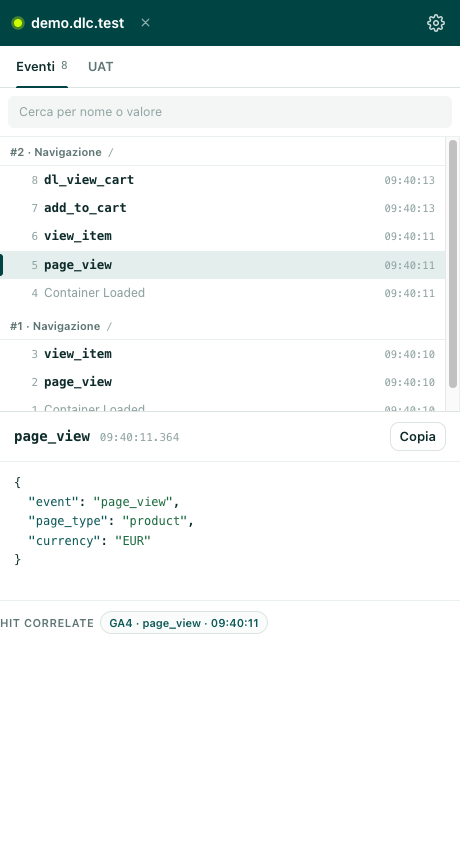
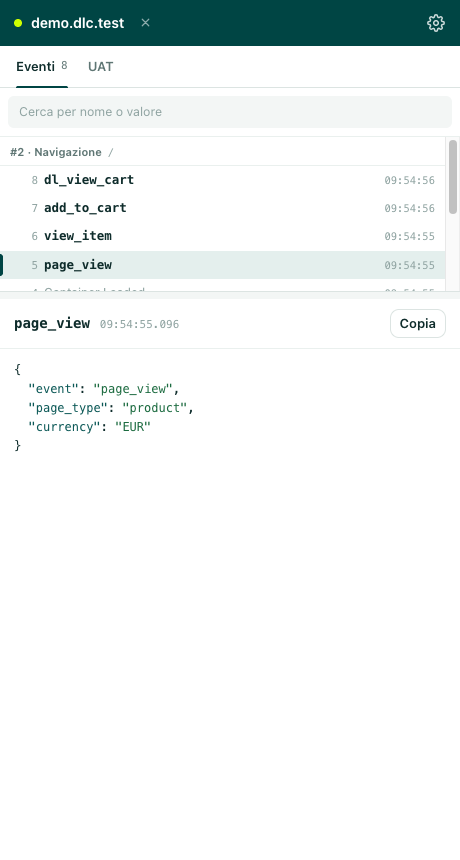
feat: la divisione fra lista eventi e dettaglio si trascina
Il separatore fra le due parti mostra il cursore a due frecce in hover (row-resize nel pannello
stretto, col-resize in una finestra larga), si trascina con il pointer capture e si muove anche
con le frecce da tastiera. La misura scelta si ricorda per asse in storage.local: cambiando
finestra e tornando indietro ognuna ritrova la sua. Limiti: almeno 120px di lista e 180px di
dettaglio, cosi' nessuna delle due sparisce.

diff --git a/ui/events.js b/ui/events.js
@@ -54,13 +54,124 @@ export function init(context) {
     detailTime: $("#detail-time"),
     detailJson: $("#detail-json"),
     detailBody: $("#detail-body"),
-    detailHits: $("#detail-hits"),
     emptyState: $("#empty-state"),
     copyBtn: $("#copy-push"),
     containers: $("#containers-strip"),
+    view: $("#events-view"),
+    sidebar: $(".events-sidebar"),
+    split: $("#events-split"),
   };
   bind();
+  initSplitter();
   return { render, selectEvent };
+}
+
+// ---------- Separatore lista / dettaglio ----------
+// Le due parti si dividono lo spazio: impilate nel pannello stretto (si trascina in altezza),
+// affiancate in una finestra larga (si trascina in larghezza). La misura scelta si ricorda per
+// asse, così passando da una finestra all'altra ognuna ritrova la sua.
+const SPLIT_KEY = "dlcEventsSplit";
+const splitSizes = { stacked: null, aside: null };
+
+function splitAxis() {
+  return getComputedStyle(els.view).flexDirection === "column" ? "stacked" : "aside";
+}
+
+function clampSplit(size, axis) {
+  const rect = els.view.getBoundingClientRect();
+  if (axis === "stacked") {
+    // Al dettaglio restano almeno 180px: sotto, il JSON è inutilizzabile.
+    return Math.round(Math.max(120, Math.min(size, rect.height - 180)));
+  }
+  return Math.round(Math.max(170, Math.min(size, rect.width - 240)));
+}
+
+function applySplit() {
+  // Con la vista Eventi nascosta (scheda UAT o Impostazioni) le misure valgono 0: applicare
+  // adesso vorrebbe dire scrivere il minimo. Si riapplica quando la vista torna visibile.
+  const rect = els.view.getBoundingClientRect();
+  if (!rect.width || !rect.height) return;
+  const axis = splitAxis();
+  els.sidebar.style.flexBasis = "";
+  els.sidebar.style.width = "";
+  const size = splitSizes[axis];
+  if (!size) return;
+  els.sidebar.style.flexBasis = clampSplit(size, axis) + "px";
+  if (axis === "aside") els.sidebar.style.width = clampSplit(size, axis) + "px";
+}
+
+function saveSplit() {
+  chrome.storage.local.set({ [SPLIT_KEY]: splitSizes }).catch(() => {});
+}
+
+function setSplit(size, axis) {
+  splitSizes[axis] = clampSplit(size, axis);
+  applySplit();
+}
+
+function initSplitter() {
+  if (!els.split) return;
+  chrome.storage.local
+    .get(SPLIT_KEY)
+    .then((stored) => {
+      const saved = stored[SPLIT_KEY];
+      if (saved && typeof saved === "object") {
+        if (Number.isFinite(saved.stacked)) splitSizes.stacked = saved.stacked;
+        if (Number.isFinite(saved.aside)) splitSizes.aside = saved.aside;
+        applySplit();
+      }
+    })
+    .catch(() => {});
+
+  els.split.addEventListener("pointerdown", (event) => {
+    if (event.button !== 0) return;
+    event.preventDefault();
+    const axis = splitAxis();
+    const rect = els.view.getBoundingClientRect();
+    els.split.setPointerCapture(event.pointerId);
+    els.split.classList.add("is-dragging");
+    document.body.classList.add("is-splitting");
+    document.body.style.cursor = axis === "stacked" ? "row-resize" : "col-resize";
+
+    const move = (ev) => {
+      const raw = axis === "stacked" ? ev.clientY - rect.top : ev.clientX - rect.left;
+      setSplit(raw, axis);
+    };
+    const end = () => {
+      els.split.removeEventListener("pointermove", move);
+      els.split.removeEventListener("pointerup", end);
+      els.split.removeEventListener("pointercancel", end);
+      els.split.classList.remove("is-dragging");
+      document.body.classList.remove("is-splitting");
+      document.body.style.cursor = "";
+      saveSplit();
+    };
+    els.split.addEventListener("pointermove", move);
+    els.split.addEventListener("pointerup", end);
+    els.split.addEventListener("pointercancel", end);
+  });
+
+  // Tastiera: il separatore è raggiungibile con Tab e si muove a passi di 16px.
+  els.split.addEventListener("keydown", (event) => {
+    const axis = splitAxis();
+    const current = splitSizes[axis] || (axis === "stacked" ? els.sidebar.getBoundingClientRect().height : els.sidebar.getBoundingClientRect().width);
+    const step = event.shiftKey ? 48 : 16;
+    let next = null;
+    if (axis === "stacked" && (event.key === "ArrowUp" || event.key === "ArrowDown")) {
+      next = current + (event.key === "ArrowDown" ? step : -step);
+    } else if (axis === "aside" && (event.key === "ArrowLeft" || event.key === "ArrowRight")) {
+      next = current + (event.key === "ArrowRight" ? step : -step);
+    }
+    if (next == null) return;
+    event.preventDefault();
+    setSplit(next, axis);
+    saveSplit();
+  });
+
+  // La finestra cambia misura (o cambia asse): le misure salvate restano nei limiti.
+  // ResizeObserver copre anche il ritorno sulla vista Eventi, quando aveva misura 0.
+  window.addEventListener("resize", applySplit);
+  if (typeof ResizeObserver === "function") new ResizeObserver(() => applySplit()).observe(els.view);
 }
 
 function bind() {
@@ -319,11 +430,6 @@ function eventRow(entry) {
   row.appendChild(el("span", "event-num", String(entry.i)));
   row.appendChild(el("span", "event-name", eventLabel(entry.data)));
   row.appendChild(el("span", "event-time", formatTime(entry.ts).slice(0, 8)));
-  if ((entry.hits || []).length) {
-    const hitsBadge = el("span", "event-hits", entry.hits.length + " hit");
-    hitsBadge.title = entry.hits.length + " hit correlate (probabile)";
-    row.appendChild(hitsBadge);
-  }
   return row;
 }
 
@@ -357,8 +463,6 @@ function renderDetail(session) {
     els.detailJson.textContent = "";
     delete els.detailJson.dataset.entry;
     els.detailJson.classList.add("is-hidden");
-    els.detailHits.classList.add("is-hidden");
-    els.detailHits.innerHTML = "";
     els.copyBtn.classList.add("is-hidden");
     renderEmpty(session);
     return;
@@ -377,37 +481,6 @@ function renderDetail(session) {
   }
   els.detailJson.classList.remove("is-hidden");
   els.copyBtn.classList.remove("is-hidden");
-  renderDetailHits(session, entry);
-}
-
-function renderDetailHits(session, entry) {
-  // Le hit che link() ha collegato a questo evento: la correlazione e' una finestra di 1,5 s
-  // sullo stesso frame, quindi si dice "probabile" e si mostra l'URL al click, senza fingere
-  // che sia un dato certo.
-  const ids = new Set(Array.isArray(entry.hits) ? entry.hits : []);
-  const hits = ids.size ? (session.hits || []).filter((hit) => ids.has(hit.id)) : [];
-  if (!hits.length) {
-    els.detailHits.classList.add("is-hidden");
-    els.detailHits.innerHTML = "";
-    return;
-  }
-  els.detailHits.classList.remove("is-hidden");
-  els.detailHits.innerHTML = "";
-  els.detailHits.appendChild(el("span", "detail-hits-label", "Hit correlate"));
-  hits.forEach((hit) => {
-    const chip = el(
-      "button",
-      "hit-chip",
-      (hit.vendorLabel || "hit") + (hit.eventName ? " · " + hit.eventName : "") + " · " + formatTime(hit.ts).slice(0, 8)
-    );
-    chip.type = "button";
-    chip.title = "Correlazione probabile (stesso frame, entro 1,5 s). Click: copia l'URL della hit.\n" + (hit.url || "");
-    chip.addEventListener("click", async () => {
-      const ok = await copyText(hit.url || "");
-      ctx.toast(ok ? "URL della hit copiato" : "Copia non riuscita");
-    });
-    els.detailHits.appendChild(chip);
-  });
 }
 
 function renderEmpty(session) {

diff --git a/gstyle.css b/gstyle.css
@@ -405,6 +405,46 @@ button:disabled {
     white-space: nowrap;
 }
 
+/* ---------- Separatore lista / dettaglio ----------
+   Nel pannello stretto le due parti sono impilate e si trascina in verticale; in una finestra
+   larga la lista sta a sinistra e si trascina in orizzontale. Il cursore a due frecce compare
+   solo sul separatore, quindi non interferisce con la selezione del testo. */
+#events-split {
+    flex: 0 0 auto;
+    position: relative;
+    z-index: 2;
+    background: transparent;
+    transition: background-color 0.12s ease;
+}
+
+#events-split:hover,
+#events-split:focus-visible,
+#events-split.is-dragging {
+    background: var(--teal-3);
+    outline: none;
+}
+
+/* Durante il trascinamento non si seleziona testo per sbaglio. */
+body.is-splitting {
+    user-select: none;
+}
+
+@media (max-width: 620px) {
+    #events-split {
+        width: 100%;
+        height: 7px;
+        cursor: row-resize;
+    }
+}
+
+@media (min-width: 621px) {
+    #events-split {
+        width: 7px;
+        align-self: stretch;
+        cursor: col-resize;
+    }
+}
+
 /* ---------- Pulsanti e campi ---------- */
 .btn {
     display: inline-flex;
@@ -622,10 +662,6 @@ button:disabled {
     color: var(--muted);
 }
 
-.event-hits {
-    display: none;
-}
-
 .nav-divider {
     position: sticky;
     top: 0;
@@ -820,45 +856,8 @@ button:disabled {
     color: var(--muted);
 }
 
-/* Hit correlate all'evento selezionato: una riga di chip, non una vista. */
-.detail-hits {
-    display: flex;
-    flex-wrap: wrap;
-    align-items: center;
-    gap: 6px;
-    margin-top: 10px;
-    padding-top: 10px;
-    border-top: 1px solid var(--line-2);
-}
-
-.detail-hits-label {
-    color: var(--muted);
-    font-size: 11px;
-    font-weight: 600;
-    letter-spacing: 0.04em;
-    text-transform: uppercase;
-}
-
-.hit-chip {
-    max-width: 100%;
-    padding: 3px 8px;
-    border: 1px solid var(--line);
-    border-radius: 99px;
-    background: var(--surface-2);
-    color: var(--teal-2);
-    font: 600 11px/1.4 var(--sans);
-    cursor: pointer;
-    overflow: hidden;
-    text-overflow: ellipsis;
-    white-space: nowrap;
-}
-
-.hit-chip:hover {
-    border-color: var(--teal-3);
-    background: var(--tint);
-}
-
 .app.no-events .events-sidebar,
+.app.no-events #events-split,
 .app.no-events .detail-head {
     display: none;
 }

diff --git a/index.html b/index.html
@@ -51,6 +51,8 @@
           <div id="events-list" class="events-list"></div>
         </aside>
 
+        <div id="events-split" class="split" role="separator" tabindex="0" aria-label="Ridimensiona la lista eventi" title="Trascina per ridimensionare"></div>
+
         <section class="detail">
           <div class="detail-head">
             <div class="detail-title-wrap">
@@ -64,7 +66,6 @@
           <div id="detail-body" class="detail-body">
             <div id="empty-state" class="empty-state"></div>
             <pre id="detail-json" class="json is-hidden"></pre>
-            <div id="detail-hits" class="detail-hits is-hidden"></div>
           </div>
         </section>
       </main>
